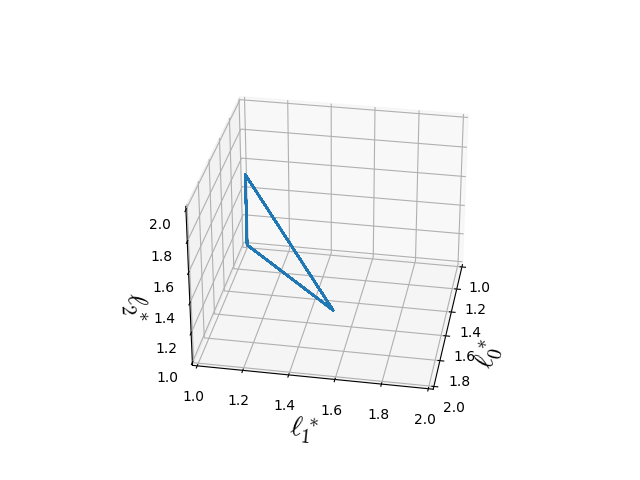
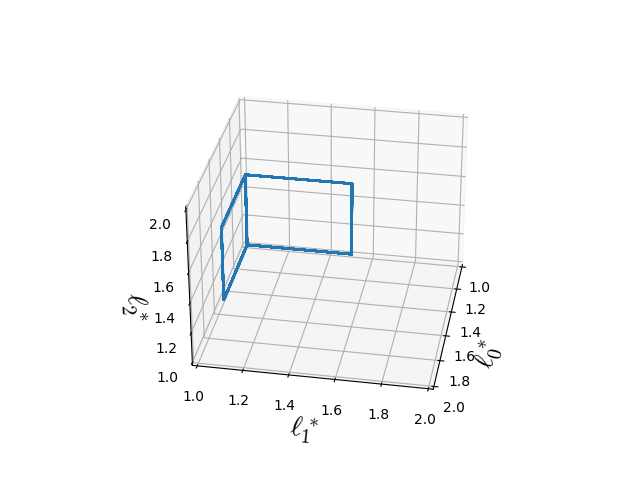
commit

Changed region(s): [[0.3438, 0.3438, 0.5625, 0.6562], [0.4062, 0.4062, 0.4375, 0.4688]]

diff --git a/sim/analysis/arm_length/arm_length_space_triangle.py b/sim/analysis/arm_length/arm_length_space_triangle.py
@@ -17,8 +17,8 @@ def main():
 
     # intervals = np.arange(0.1, 1.0, 0.2)
     # lengths = np.arange(1.1, 2.0, 0.2)
-    intervals = [0.5]
-    lengths   = [1.1]
+    intervals = [0.7]
+    lengths   = [1.5]
 
     for interval in tqdm(intervals):
         for length in tqdm(lengths, leave=False):
